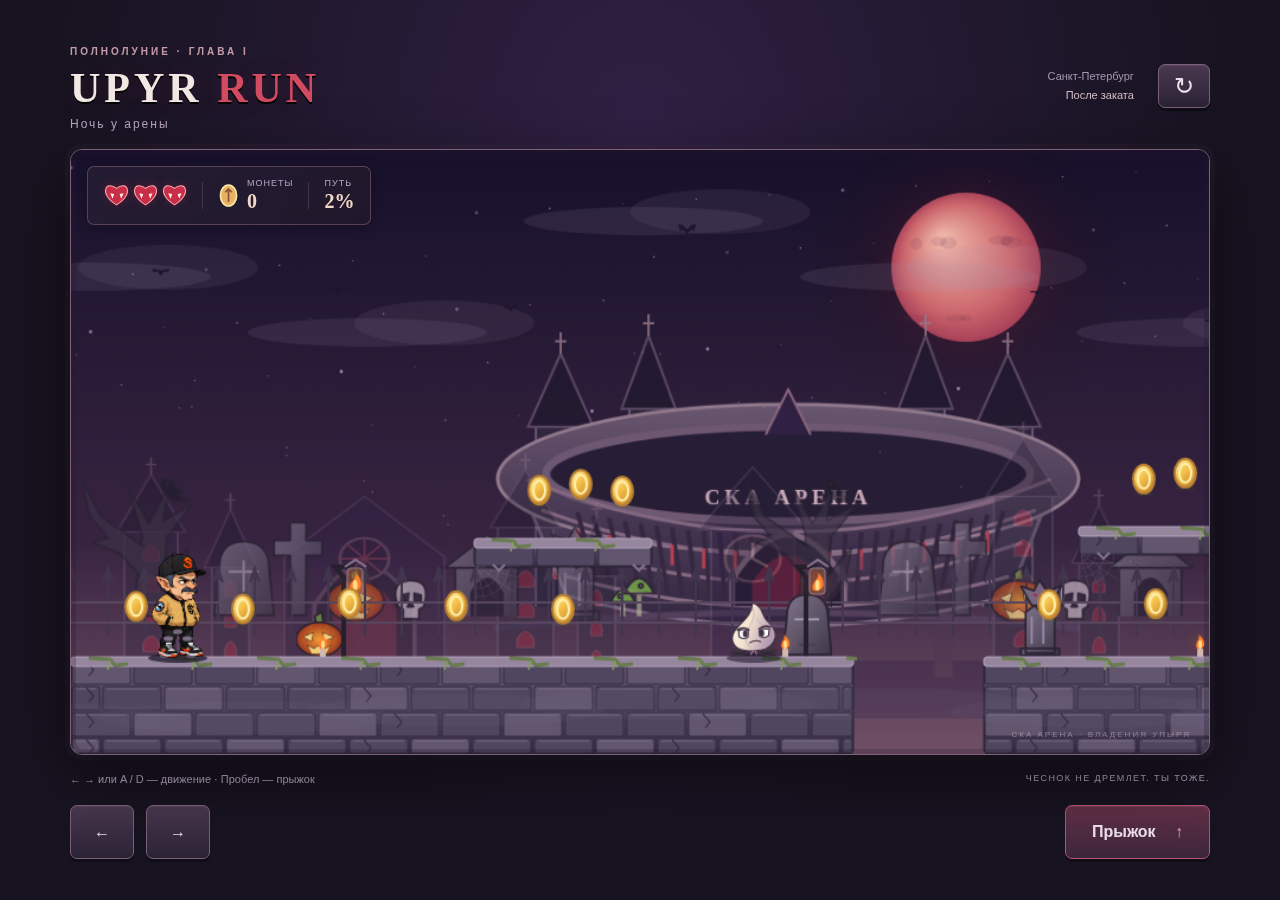
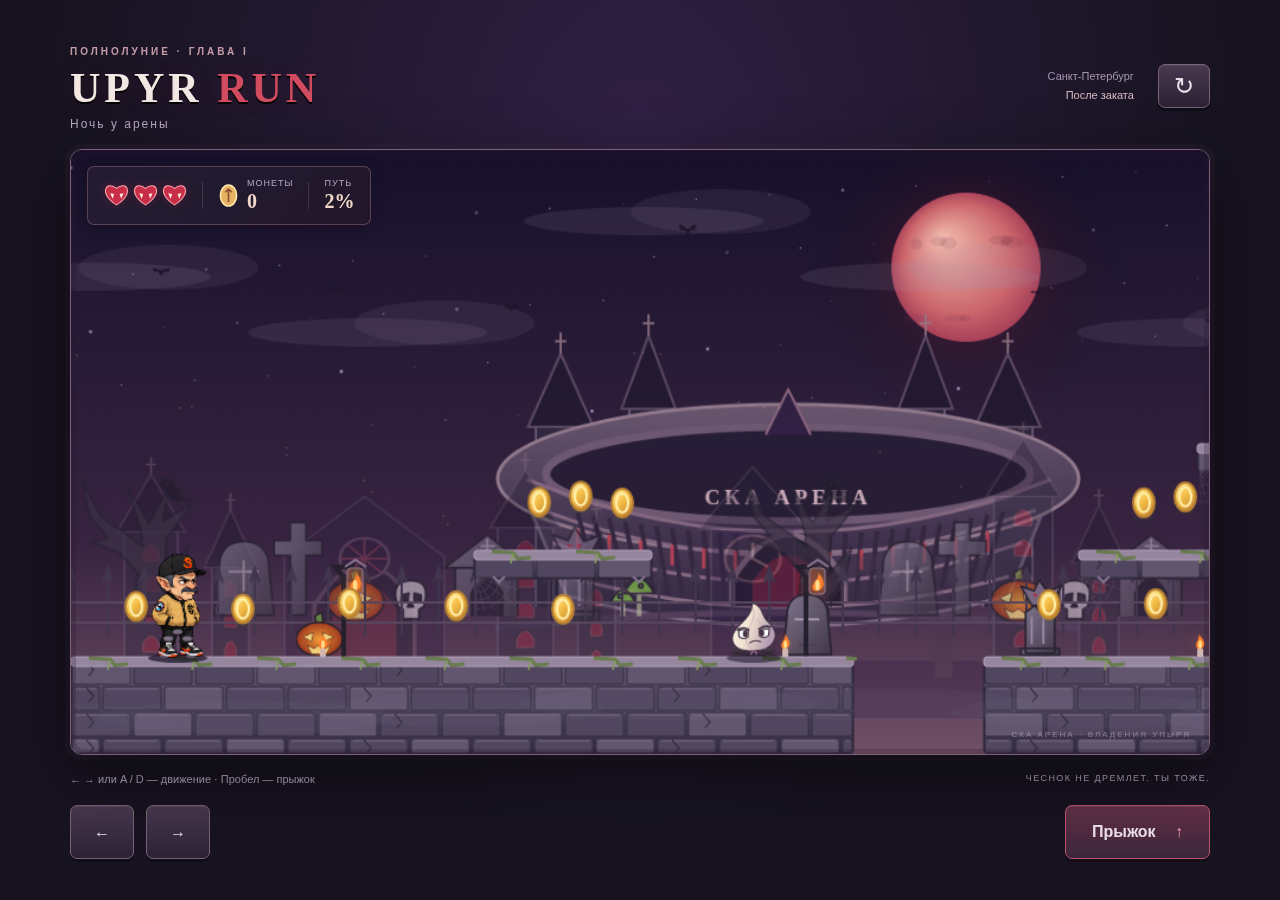
Make platform tiers reachable and passable from below

Changed region(s): [[0.3438, 0.4978, 0.5312, 0.6533], [0.8438, 0.4978, 0.9688, 0.6533]]

diff --git a/Worrkk.html b/Worrkk.html
@@ -208,7 +208,10 @@ let assetsReady=false;
 Promise.all([heroImage.decode(),garlicImage.decode(),atmosphere.ready]).then(()=>{assetsReady=true;document.querySelector('#play').disabled=false;}).catch(()=>{overlay.hidden=false;overlay.querySelector('p').textContent='Не удалось загрузить графику. Откройте игру через npm start или используйте автономный HTML-файл.';});
 document.querySelector('#play').disabled=true;
 const keys={left:false,right:false,jump:false};
-const platforms=[[0,430,660,80],[770,430,570,80],[1480,430,600,80],[2220,430,700,80],[340,330,150,22],[850,320,160,22],[1120,240,160,22],[1570,320,170,22],[1850,240,160,22],[2290,320,150,22],[2530,250,160,22]];
+// A jump rises about 102–112 px at supported frame rates. Leave room for timing.
+const groundPlatforms=[[0,430,660,80],[770,430,570,80],[1480,430,600,80],[2220,430,700,80]];
+const ledgePlatforms=[[340,340,150,22],[850,340,160,22],[950,250,160,22],[1570,340,170,22],[1660,250,160,22],[2290,340,150,22],[2380,250,160,22]];
+const platforms=[...groundPlatforms,...ledgePlatforms];
 let player,coins,enemies,camera=0,state='menu',score=0,last=0,clock=0,jumpHeld=false;
 function reset(){atmosphere.reset();player={x:70,y:330,w:40,h:80,vx:0,vy:0,ground:false,hp:3,inv:0,face:1};coins=platforms.flatMap(([x,y,w],i)=>Array.from({length:i<4?Math.floor(w/95)-1:3},(_,j)=>({x:x+55+j*(i<4?90:35),y:y-45,taken:false})));enemies=[{x:530,y:388,origin:530,dir:1},{x:1060,y:388,origin:1060,dir:-1},{x:1770,y:388,origin:1770,dir:1},{x:2410,y:388,origin:2410,dir:1}];score=0;camera=0;clock=0;jumpHeld=false;for(const k in keys)keys[k]=false;}
 function start(){if(!assetsReady)return;reset();state='playing';overlay.classList.remove('defeat');overlay.hidden=true;}
@@ -216,9 +219,20 @@ function finish(win){state=win?'win':'lost';overlay.hidden=false;overlay.classLi
 function hit(){if(player.inv>0)return;player.hp--;player.inv=1.6;atmosphere.burst(player.x+20,player.y+35,'sparks');player.vy=-330;if(player.hp<=0)finish(false);}
 function overlap(a,b){return a.x<b.x+b.w&&a.x+a.w>b.x&&a.y<b.y+b.h&&a.y+a.h>b.y;}
 function update(dt){clock+=dt;player.inv=Math.max(0,player.inv-dt);player.vx=((keys.right?1:0)-(keys.left?1:0))*245;if(player.vx)player.face=Math.sign(player.vx);if(keys.jump&&!jumpHeld&&player.ground){player.vy=-590;player.ground=false;}jumpHeld=keys.jump;
-player.x=Math.max(0,Math.min(2860,player.x+player.vx*dt));for(const [x,y,w,h]of platforms){if(overlap(player,{x,y,w,h})){if(player.vx>0)player.x=x-player.w;if(player.vx<0)player.x=x+w;}}
+player.x=Math.max(0,Math.min(2860,player.x+player.vx*dt));for(const [x,y,w,h]of groundPlatforms){if(overlap(player,{x,y,w,h})){if(player.vx>0)player.x=x-player.w;if(player.vx<0)player.x=x+w;}}
 const wasGrounded=player.ground;const prevBottom=player.y+player.h;player.vy+=1550*dt;player.y+=player.vy*dt;player.ground=false;
-for(const [x,y,w,h]of platforms){if(overlap(player,{x,y,w,h})){if(player.vy>=0&&prevBottom<=y+2){player.y=y-player.h;player.vy=0;player.ground=true;if(!wasGrounded)atmosphere.burst(player.x+20,y,'landing');}else if(player.vy<0){player.y=y+h;player.vy=0;}}}
+// Ledges are one-way: only feet crossing the top while falling can collide.
+// Scan all crossed tops and choose the first surface, independent of array order.
+if(player.vy>=0){
+ let landingY=Infinity;
+ for(const [x,y,w]of platforms){
+  if(player.x+player.w>x && player.x<x+w && prevBottom<=y+.001 && player.y+player.h>=y){landingY=Math.min(landingY,y);}
+ }
+ if(landingY!==Infinity){player.y=landingY-player.h;player.vy=0;player.ground=true;if(!wasGrounded)atmosphere.burst(player.x+20,landingY,'landing');}
+}else{
+ // The ground remains solid; floating ledges never block the head or sides.
+ for(const [x,y,w,h]of groundPlatforms){if(overlap(player,{x,y,w,h})){player.y=y+h;player.vy=0;}}
+}
 for(const c of coins)if(!c.taken&&Math.hypot(player.x+20-c.x,player.y+40-c.y)<33){c.taken=true;score++;}
 for(const e of enemies){if(e.dead)continue;e.x+=e.dir*65*dt;if(Math.abs(e.x-e.origin)>65)e.dir*=-1;if(overlap(player,{x:e.x,y:e.y,w:38,h:42})){if(player.vy>0&&prevBottom<e.y+12){e.dead=true;atmosphere.burst(e.x+19,e.y+21,'garlic');atmosphere.burst(e.x+19,e.y+10,'sparks');player.vy=-370;}else hit();}}
 if(player.y>570)finish(false);if(state==='playing'&&player.x>2780)finish(true);camera=Math.max(0,Math.min(1960,player.x-260));}

diff --git a/game.js b/game.js
@@ -5,7 +5,10 @@ let assetsReady=false;
 Promise.all([heroImage.decode(),garlicImage.decode(),atmosphere.ready]).then(()=>{assetsReady=true;document.querySelector('#play').disabled=false;}).catch(()=>{overlay.hidden=false;overlay.querySelector('p').textContent='Не удалось загрузить графику. Откройте игру через npm start или используйте автономный HTML-файл.';});
 document.querySelector('#play').disabled=true;
 const keys={left:false,right:false,jump:false};
-const platforms=[[0,430,660,80],[770,430,570,80],[1480,430,600,80],[2220,430,700,80],[340,330,150,22],[850,320,160,22],[1120,240,160,22],[1570,320,170,22],[1850,240,160,22],[2290,320,150,22],[2530,250,160,22]];
+// A jump rises about 102–112 px at supported frame rates. Leave room for timing.
+const groundPlatforms=[[0,430,660,80],[770,430,570,80],[1480,430,600,80],[2220,430,700,80]];
+const ledgePlatforms=[[340,340,150,22],[850,340,160,22],[950,250,160,22],[1570,340,170,22],[1660,250,160,22],[2290,340,150,22],[2380,250,160,22]];
+const platforms=[...groundPlatforms,...ledgePlatforms];
 let player,coins,enemies,camera=0,state='menu',score=0,last=0,clock=0,jumpHeld=false;
 function reset(){atmosphere.reset();player={x:70,y:330,w:40,h:80,vx:0,vy:0,ground:false,hp:3,inv:0,face:1};coins=platforms.flatMap(([x,y,w],i)=>Array.from({length:i<4?Math.floor(w/95)-1:3},(_,j)=>({x:x+55+j*(i<4?90:35),y:y-45,taken:false})));enemies=[{x:530,y:388,origin:530,dir:1},{x:1060,y:388,origin:1060,dir:-1},{x:1770,y:388,origin:1770,dir:1},{x:2410,y:388,origin:2410,dir:1}];score=0;camera=0;clock=0;jumpHeld=false;for(const k in keys)keys[k]=false;}
 function start(){if(!assetsReady)return;reset();state='playing';overlay.classList.remove('defeat');overlay.hidden=true;}
@@ -13,9 +16,20 @@ function finish(win){state=win?'win':'lost';overlay.hidden=false;overlay.classLi
 function hit(){if(player.inv>0)return;player.hp--;player.inv=1.6;atmosphere.burst(player.x+20,player.y+35,'sparks');player.vy=-330;if(player.hp<=0)finish(false);}
 function overlap(a,b){return a.x<b.x+b.w&&a.x+a.w>b.x&&a.y<b.y+b.h&&a.y+a.h>b.y;}
 function update(dt){clock+=dt;player.inv=Math.max(0,player.inv-dt);player.vx=((keys.right?1:0)-(keys.left?1:0))*245;if(player.vx)player.face=Math.sign(player.vx);if(keys.jump&&!jumpHeld&&player.ground){player.vy=-590;player.ground=false;}jumpHeld=keys.jump;
-player.x=Math.max(0,Math.min(2860,player.x+player.vx*dt));for(const [x,y,w,h]of platforms){if(overlap(player,{x,y,w,h})){if(player.vx>0)player.x=x-player.w;if(player.vx<0)player.x=x+w;}}
+player.x=Math.max(0,Math.min(2860,player.x+player.vx*dt));for(const [x,y,w,h]of groundPlatforms){if(overlap(player,{x,y,w,h})){if(player.vx>0)player.x=x-player.w;if(player.vx<0)player.x=x+w;}}
 const wasGrounded=player.ground;const prevBottom=player.y+player.h;player.vy+=1550*dt;player.y+=player.vy*dt;player.ground=false;
-for(const [x,y,w,h]of platforms){if(overlap(player,{x,y,w,h})){if(player.vy>=0&&prevBottom<=y+2){player.y=y-player.h;player.vy=0;player.ground=true;if(!wasGrounded)atmosphere.burst(player.x+20,y,'landing');}else if(player.vy<0){player.y=y+h;player.vy=0;}}}
+// Ledges are one-way: only feet crossing the top while falling can collide.
+// Scan all crossed tops and choose the first surface, independent of array order.
+if(player.vy>=0){
+ let landingY=Infinity;
+ for(const [x,y,w]of platforms){
+  if(player.x+player.w>x && player.x<x+w && prevBottom<=y+.001 && player.y+player.h>=y){landingY=Math.min(landingY,y);}
+ }
+ if(landingY!==Infinity){player.y=landingY-player.h;player.vy=0;player.ground=true;if(!wasGrounded)atmosphere.burst(player.x+20,landingY,'landing');}
+}else{
+ // The ground remains solid; floating ledges never block the head or sides.
+ for(const [x,y,w,h]of groundPlatforms){if(overlap(player,{x,y,w,h})){player.y=y+h;player.vy=0;}}
+}
 for(const c of coins)if(!c.taken&&Math.hypot(player.x+20-c.x,player.y+40-c.y)<33){c.taken=true;score++;}
 for(const e of enemies){if(e.dead)continue;e.x+=e.dir*65*dt;if(Math.abs(e.x-e.origin)>65)e.dir*=-1;if(overlap(player,{x:e.x,y:e.y,w:38,h:42})){if(player.vy>0&&prevBottom<e.y+12){e.dead=true;atmosphere.burst(e.x+19,e.y+21,'garlic');atmosphere.burst(e.x+19,e.y+10,'sparks');player.vy=-370;}else hit();}}
 if(player.y>570)finish(false);if(state==='playing'&&player.x>2780)finish(true);camera=Math.max(0,Math.min(1960,player.x-260));}

diff --git a/tests/gameplay.test.js b/tests/gameplay.test.js
@@ -9,8 +9,26 @@ function game(){
  vm.createContext(context);vm.runInContext(readFileSync(new URL('../game.js',import.meta.url),'utf8'),context);vm.runInContext('assetsReady=true;start()',context);
  return code=>vm.runInContext(code,context);
 }
-test('level retains every original platform collider',()=>{
- const run=game();assert.equal(run('JSON.stringify(platforms)'),JSON.stringify([[0,430,660,80],[770,430,570,80],[1480,430,600,80],[2220,430,700,80],[340,330,150,22],[850,320,160,22],[1120,240,160,22],[1570,320,170,22],[1850,240,160,22],[2290,320,150,22],[2530,250,160,22]]));
+test('ground and gaps retain their colliders',()=>{
+ const run=game();assert.equal(run('JSON.stringify(groundPlatforms)'),JSON.stringify([[0,430,660,80],[770,430,570,80],[1480,430,600,80],[2220,430,700,80]]));
+});
+test('every ledge is reachable in one jump from ground or its lower tier at 30/60/120 Hz',()=>{
+ for(const hz of [30,60,120]){
+  const run=game();const ledges=JSON.parse(run('JSON.stringify(ledgePlatforms)'));
+  for(const target of ledges){
+   const all=JSON.parse(run('JSON.stringify(platforms)'));
+   const source=all.find(p=>p[1]-target[1]===90&&Math.min(p[0]+p[2],target[0]+target[2])-Math.max(p[0],target[0])>=40);
+   assert.ok(source,`lower tier exists for ${target}`);
+   const x=Math.max(source[0],target[0])+5;
+   run(`start();enemies=[];player.x=${x};player.y=${source[1]}-player.h;player.ground=true;keys.jump=true;update(1/${hz});keys.jump=false;`);
+   let reached=false;
+   for(let frame=0;frame<hz*2;frame++){
+    run(`update(1/${hz})`);
+    if(run('player.ground')){assert.equal(run('player.y+player.h'),target[1],`${target} at ${hz}Hz`);reached=true;break;}
+   }
+   assert.ok(reached,`landed on ${target} at ${hz}Hz`);
+  }
+ }
 });
 test('land, run and jump with original physics',()=>{
  const run=game();run('for(let i=0;i<120;i++)update(1/120)');assert.equal(run('player.y'),350);assert.equal(run('player.ground'),true);
@@ -28,8 +46,18 @@ test('garlic stomp bounces, falling loses, finish and restart work',()=>{
  run('start();player.x=2790;update(0)');assert.equal(run('state'),'win');
  run('start()');assert.equal(run('player.hp'),3);assert.equal(run('score'),0);assert.equal(run('state'),'playing');
 });
-test('walls, underside collisions and camera retain behavior',()=>{
- const run=game();run('player.x=299;player.y=335;keys.right=true;update(1/60)');assert.equal(run('player.x'),300);
- run('start();player.x=370;player.y=355;player.vy=-400;update(1/60)');assert.equal(run('player.y'),352);assert.equal(run('player.vy'),0);
+test('floating ledges do not block upward or sideways movement',()=>{
+ const run=game();run('player.x=299;player.y=335;keys.right=true;update(1/60)');assert.ok(run('player.x')>300);
+ run('start();player.x=370;player.y=355;player.vy=-400;update(1/60)');assert.ok(run('player.y')<355);assert.ok(run('player.vy')<0);
+ // Feet already below the ledge top cannot snap upward onto it while falling.
+ run('start();player.x=370;player.y=300;player.vy=50;update(1/60)');assert.equal(run('player.ground'),false);assert.ok(run('player.y')>300);
+});
+test('landing uses the first crossed top even at high speed and remains stable',()=>{
+ const run=game();run('player.x=370;player.y=230;player.vy=4000;update(1/30)');assert.equal(run('player.y+player.h'),340);
+ run('for(let i=0;i<120;i++)update(1/60)');assert.equal(run('player.y+player.h'),340);assert.equal(run('player.ground'),true);
+});
+test('ground walls and undersides remain solid; camera follows',()=>{
+ const run=game();run('player.x=729;player.y=440;keys.right=true;update(1/60)');assert.equal(run('player.x'),730);
+ run('start();player.x=50;player.y=515;player.vy=-400;update(1/60)');assert.equal(run('player.y'),510);assert.equal(run('player.vy'),0);
  run('start();player.x=1500;update(0)');assert.equal(run('camera'),1240);
 });

diff --git a/README.md b/README.md
@@ -1,6 +1,6 @@
 # UPYR RUN — Ночь у арены
 
-Существующий Canvas 2D-платформер переоформлен в мультяшную готику. Персонаж, размеры уровня, управление и физика сохранены. Внешних npm-зависимостей для игры нет.
+Существующий Canvas 2D-платформер переоформлен в мультяшную готику. Персонаж, управление, сила прыжка и гравитация сохранены. Высота и расположение парящих платформ настроены под прыжок; земля и пропасти сохранены. Внешних npm-зависимостей для игры нет.
 
 ![UPYR RUN — игровой экран](docs/upyr-run.png)
 
@@ -22,7 +22,7 @@ npm start
 
 ## Устройство проекта
 
-- `game.js`: единственная игровая сцена; исходные массивы платформ, враги, физика, камера, управление и загрузка героя/чеснока. Добавлены только вызовы визуальных эффектов и новой отрисовки.
+- `game.js`: единственная игровая сцена; исходные массивы платформ, враги, физика, камера, управление и загрузка героя/чеснока. Парящие платформы пропускают героя снизу и сбоку; приземление происходит только при пересечении верхней поверхности ногами при падении. Земля остаётся твёрдой.
 - `atmosphere.js`: пять скоростей параллакса; красная луна, звёзды, облака, мыши, дальняя молния, свет фонарей и свечей, пыль, туман и осколки чеснока. SVG и каменная кладка растеризуются один раз. Невидимые платформы и декорации пропускаются; одновременно не более 90 частиц. Шейдеров, фильтров размытия и библиотек рендеринга нет.
 - `assets/environment/`: самостоятельные SVG дворца-арены, готического горизонта, кладбищенского декора и паутины. СКА Арена изображена как стилизованная овальная чаша с ребристым фасадом и готическими башнями.
 - `assets/hero.png`, `assets/garlic.svg`: прежние ассеты, без изменений.
@@ -39,7 +39,9 @@ npm test
 npm run build
 ```
 
-Пять Node-тестов проверяют прежние коллайдеры, прыжок и бег, монеты, урон, неуязвимость, уничтожение чеснока, проигрыш, победу, перезапуск, потолки и камеру.
+Восемь Node-тестов проверяют достижимость каждой платформы при 30/60/120 Гц, проход сквозь парящие платформы снизу и сбоку, устойчивое приземление, отсутствие прилипания снизу, твёрдую землю, прыжок и бег, монеты, урон, неуязвимость, уничтожение чеснока, проигрыш, победу, перезапуск и камеру.
+
+Нижние платформы находятся на 90 пикселей выше земли. Верхние — на 90 пикселей выше нижних, с горизонтальным перекрытием для прямого прыжка снизу. Это оставляет запас относительно высоты прыжка (примерно 102–112 пикселей в зависимости от шага кадра).
 
 Дополнительно выполнен `tests/browser-check.cjs` с Chromium / Playwright Core. Проверены HTTP-ресурсы и порядок загрузки скриптов, полный маршрут до победы, клавиатура, сенсорные кнопки, экран 390 × 844, отсутствие ошибок страницы, автономная работа без сети. Вызовы Telegram проверены с подставным SDK: это не проверка реального Telegram-клиента.
 
